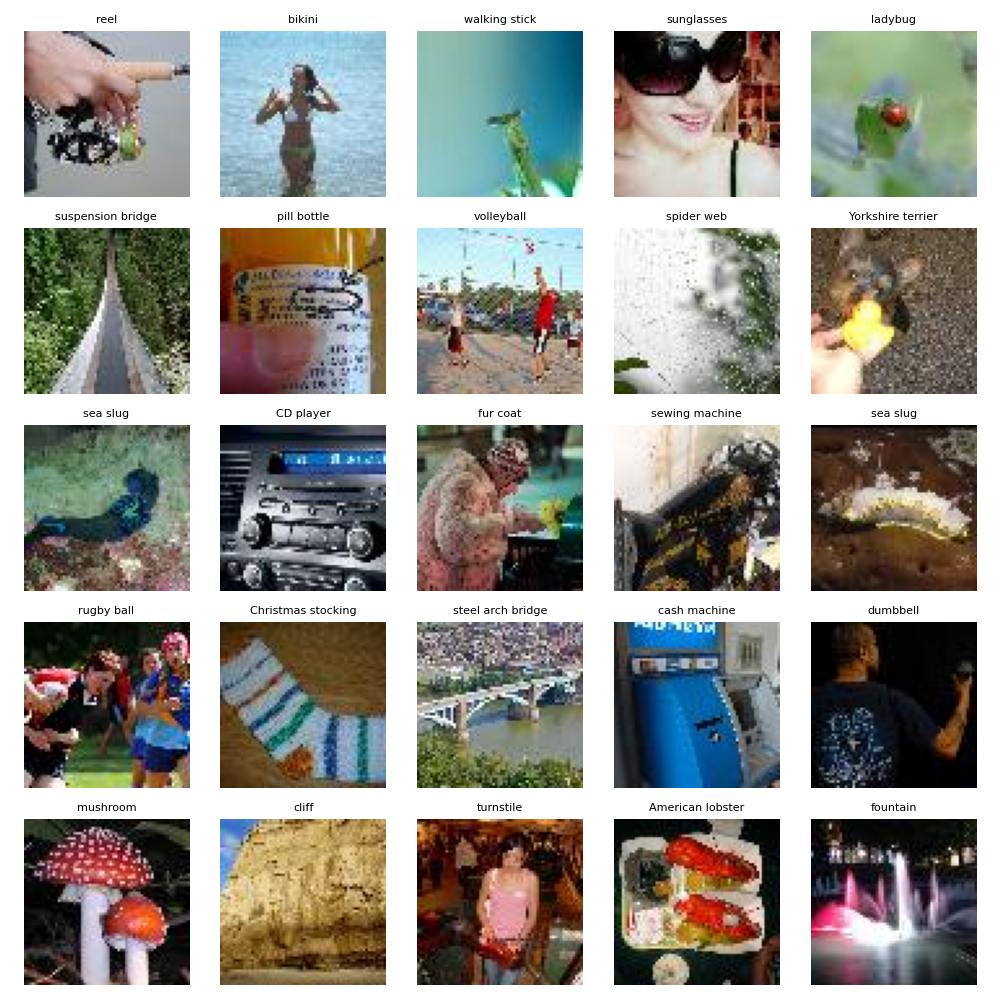
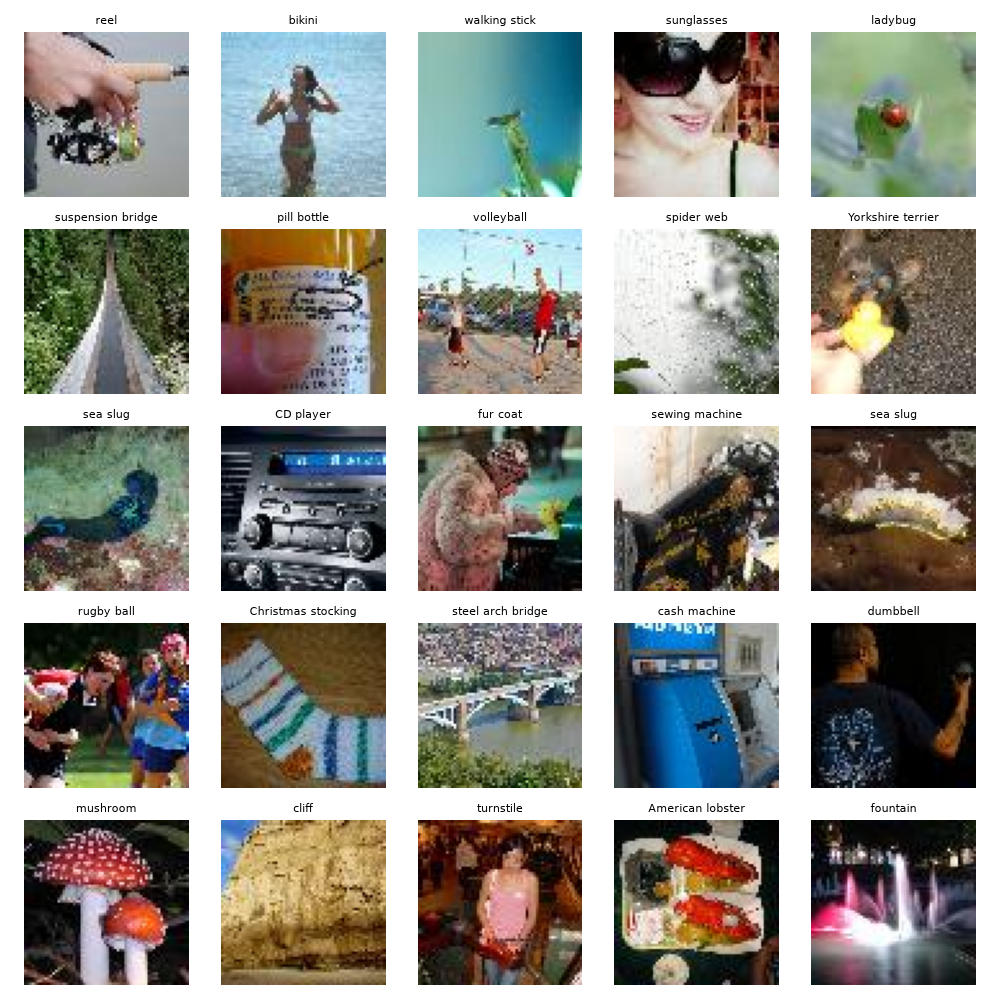
docs: TASK-007, 009, 010 done after merging PR #11, TV1 reproduction evidence
Restore TASK-002 samples.png changed by mistake on vananh; add app/examples/README.md (image sources not recorded, accepted by TV1). Mark TV5 tasks done in plan, eval, demo, README, report; fix links to deleted docs/tasks/. Evidence: test rerun matches 10,000/10,000 predictions per model, compare/error_analysis outputs identical, 109 tests pass on main.

diff --git a/report/report.md b/report/report.md
@@ -1,6 +1,6 @@
 # Báo cáo: Phân loại ảnh Tiny ImageNet bằng Vision Transformer
 
-> **Bản nháp, cập nhật ngày 2026-11-21.** Khung theo mục 15 của [spec](../SPEC_ViT.md). Đã có dữ liệu, phương pháp, huấn luyện, kết quả test và so sánh (mục 5), attention (mục 6), phân tích lỗi (mục 7), hướng dẫn demo và kiểm thử (mục 8). Phần TV5 chờ TV1 xác minh; mục 1 và 9, link checkpoint và kiểm tra máy sạch còn cần hoàn thiện.
+> **Bản nháp, cập nhật ngày 2026-11-21.** Khung theo mục 15 của [spec](../SPEC_ViT.md). Đã có dữ liệu, phương pháp, huấn luyện, kết quả test và so sánh (mục 5), attention (mục 6), phân tích lỗi (mục 7), hướng dẫn demo và kiểm thử (mục 8). Phần TV5 đã được TV1 xác minh (PR #11); mục 1 và 9, link checkpoint và kiểm tra máy sạch còn cần hoàn thiện.
 
 **Phân công viết** (theo mục 19 spec; TV5 ghép bản cuối):
 
@@ -433,7 +433,7 @@ python -m pytest tests/test_evaluate.py tests/test_compare.py tests/test_demo.py
 
 Các test dùng dữ liệu giả nhỏ và thư mục tạm, không cần checkpoint thật hay bộ dữ liệu Tiny ImageNet. Đây là kiểm chứng chức năng code, khác với đánh giá độ chính xác mô hình trên tập test ở mục 5. TV5 chạy kiểm thử. Chi tiết ghi trong [AI_Usage.md](../AI_Usage.md) và [nhật ký](../docs/10_work_log.md).
 
-Demo đã được kiểm tra trên bản copy sạch với môi trường Python mới, không copy `.git`, `.venv`, `data/` hoặc checkpoint cũ. Sau khi cài `requirements.txt`, toàn bộ pytest đạt 109 passed và chép hai checkpoint best để chạy demo. Thao tác trình duyệt đã được kiểm tra với ảnh mẫu và ảnh tải lên; callback Gradio với hai checkpoint thật cho ảnh RGB, xám và alpha đều trả hai bảng Top-5 cùng ảnh rollout. Các task của TV5 vẫn chờ TV1 xác minh.
+Demo đã được kiểm tra trên bản copy sạch với môi trường Python mới, không copy `.git`, `.venv`, `data/` hoặc checkpoint cũ. Sau khi cài `requirements.txt`, toàn bộ pytest đạt 109 passed và chép hai checkpoint best để chạy demo. Thao tác trình duyệt đã được kiểm tra với ảnh mẫu và ảnh tải lên; callback Gradio với hai checkpoint thật cho ảnh RGB, xám và alpha đều trả hai bảng Top-5 cùng ảnh rollout. TV1 chạy lại đánh giá, phân tích lỗi, so sánh và callback demo ngày 2026-11-21, kết quả khớp.
 
 ## 9. Kết luận và hướng phát triển
 

diff --git a/docs/07_evaluation.md b/docs/07_evaluation.md
@@ -1,6 +1,6 @@
 # Đánh giá, attention và so sánh
 
-**Người giữ:** TV5 (đánh giá, so sánh), TV2 (attention). **Đầu việc:** TASK-007, TASK-008, TASK-009, TASK-012. **Code:** đã có `src/attention.py` (TASK-008, TV1 review và gộp qua [PR #6](https://github.com/QuocAn118/Classify-images-using-Vision-Transformer/pull/6) ngày 2026-11-20). Đã triển khai `src/evaluate.py` và `scripts/error_analysis.py` cho TASK-007 trên nhánh `vananh`. Đã triển khai `src/compare.py` cho TASK-009. Chạy `python -m src.compare` từ thư mục gốc để tạo bảng so sánh ViT–CNN và hai biểu đồ.
+**Người giữ:** TV5 (đánh giá, so sánh), TV2 (attention). **Đầu việc:** TASK-007, TASK-008, TASK-009, TASK-012. **Code:** đã có `src/attention.py` (TASK-008, TV1 review và gộp qua [PR #6](https://github.com/QuocAn118/Classify-images-using-Vision-Transformer/pull/6) ngày 2026-11-20). Đã có `src/evaluate.py`, `scripts/error_analysis.py` (TASK-007) và `src/compare.py` (TASK-009), TV1 review và gộp qua [PR #11](https://github.com/QuocAn118/Classify-images-using-Vision-Transformer/pull/11) ngày 2026-11-21. Chạy `python -m src.compare` từ thư mục gốc để tạo bảng so sánh ViT–CNN và hai biểu đồ.
 
 ## Thành phần làm gì
 Đo kết quả cuối trên test, phân tích lỗi, trực quan hóa attention của ViT và sinh bảng so sánh ViT với CNN. Mọi số đều lấy từ file.
@@ -87,6 +87,12 @@ python -m src.attention --checkpoint outputs/checkpoints/vit_small_seed42_best.p
 
 ## Rủi ro
 - Rò rỉ dữ liệu test: đánh giá số cuối và vẽ attention chỉ sau khi chốt cấu hình/checkpoint. Không dùng nhóm ảnh đã chọn cân bằng đúng/sai để báo accuracy hoặc chọn mô hình.
+
+### TV1 review ngày 2026-11-21
+
+- Chạy lại `evaluate_model` trên CPU với hai checkpoint best (epoch 50): ViT 48,46 / 72,76, CNN 59,03 / 81,74; 10.000/10.000 dự đoán trùng CSV đã commit, số ảnh sai 5.154 và 4.097. Tên lớp trong checkpoint khớp `class_names.json`.
+- Chạy lại `scripts.error_analysis` và `src.compare`: mọi CSV/JSON giống hệt; PNG chỉ khác byte do render. Số liệu mục 5, 7 báo cáo (168/13/19 lớp, cặp nhầm, val loss) khớp file.
+- `python -m pytest -q -W error` → 109 passed. Tốc độ suy luận đo trên batch val, không đọc test để chọn gì.
 
 ### Rà soát TV5 ngày 2026-11-21
 

diff --git a/README.md b/README.md
@@ -2,7 +2,7 @@
 
 Đồ án môn Học sâu, đề số 9. Nhóm tự cài ViT, so sánh với một CNN có cùng số tham số và trực quan hóa attention.
 
-> **Trạng thái:** đã có khung repo, dữ liệu, DataLoader (TASK-001 đến 003), ViT ([PR #2](https://github.com/QuocAn118/Classify-images-using-Vision-Transformer/pull/2)), CNN ([PR #3](https://github.com/QuocAn118/Classify-images-using-Vision-Transformer/pull/3)), vòng lặp train và train thật 50 epoch (TASK-006, 011, TV4, gộp từ nhánh `hoangdang`) và hình attention (TASK-008, [PR #6](https://github.com/QuocAn118/Classify-images-using-Vision-Transformer/pull/6)). Validation Top-1: ViT 47,63%, CNN 58,73% ([bằng chứng](outputs/results/task011_training_checks.json)). Đánh giá test, bảng so sánh và demo đã triển khai trên nhánh `vananh`, đang sửa theo review và chờ TV1 xác minh.
+> **Trạng thái:** đã có khung repo, dữ liệu, DataLoader (TASK-001 đến 003), ViT ([PR #2](https://github.com/QuocAn118/Classify-images-using-Vision-Transformer/pull/2)), CNN ([PR #3](https://github.com/QuocAn118/Classify-images-using-Vision-Transformer/pull/3)), vòng lặp train và train thật 50 epoch (TASK-006, 011, TV4, gộp từ nhánh `hoangdang`) và hình attention (TASK-008, [PR #6](https://github.com/QuocAn118/Classify-images-using-Vision-Transformer/pull/6)). Validation Top-1: ViT 47,63%, CNN 58,73% ([bằng chứng](outputs/results/task011_training_checks.json)). Đánh giá test, bảng so sánh và demo Gradio (TASK-007, 009, 010, TV5, [PR #11](https://github.com/QuocAn118/Classify-images-using-Vision-Transformer/pull/11)). Test Top-1: ViT 48,46%, CNN 59,03% ([ViT](outputs/results/vit_small_seed42.json), [CNN](outputs/results/cnn_baseline_seed42.json), [bảng so sánh](outputs/results/comparison.md)).
 
 ## Bài toán
 
@@ -31,7 +31,7 @@ python -m pytest
 ```
 
 - `prepare_data.py --download` tải Tiny ImageNet từ Stanford (248 MB) vào `data/`, chia train/validation/test và tạo cache khoảng 1,35 GB ở `data/cache/tiny_imagenet_64/`. Trên máy TV1 (CPU, Windows) mất 64 phút.
-- Đánh giá, so sánh và demo đã triển khai trên nhánh `vananh`, đang sửa theo review và chờ TV1 xác minh.
+- Đánh giá test, so sánh và demo: lệnh ở mục dưới.
 
 ### Đánh giá, so sánh và demo (TV5)
 

diff --git a/docs/10_work_log.md b/docs/10_work_log.md
@@ -311,6 +311,13 @@ Ghi ngắn sau mỗi buổi hoặc mốc đáng kể.
 Copy project sang thư mục mới, bỏ `.git`, `.venv`, `data/` và `checkpoint`; tạo `.venv` mới, cài `requirements.txt` và chạy pytest: 109 passed.
 
 
+## 2026-11-21 (TV1, review và gộp TASK-007, TASK-009, TASK-010)
+
+- **Kết quả:** Gộp [PR #11](https://github.com/QuocAn118/Classify-images-using-Vision-Transformer/pull/11) (nhánh `vananh`, TV5) vào `main` bằng `--no-ff`. Vòng 1 yêu cầu sửa: thiếu `gradio` trong requirements, demo in traceback khi thiếu checkpoint, ảnh mẫu 9 MB, code lặp trong `error_analysis.py`; TV5 sửa đủ và thêm 16 test. Sau gộp TV1 trả `outputs/figures/samples.png` về bản TASK-002 (TV5 vô tình đổi) và tạo `app/examples/README.md`; TV1 chấp nhận ảnh mẫu không có URL nguồn.
+- **Bằng chứng:** chạy lại test trên CPU khớp 10.000/10.000 dự đoán mỗi mô hình (ViT 48,46 / 72,76, CNN 59,03 / 81,74); `scripts.error_analysis` và `src.compare` ra CSV/JSON giống hệt; callback demo với hai checkpoint thật; `python -m pytest -q -W error` trên `main` sau gộp → 109 passed.
+- **Chưa xác minh:** chưa mở demo trong trình duyệt trên máy TV1; kiểm tra máy sạch của TV5 là bản copy trên cùng máy, chưa phải clone trên máy khác; giấy phép ảnh mẫu chưa xác nhận.
+- **Bước tiếp theo:** TASK-012 hoàn thiện báo cáo; TV1 viết mục 1, 8, 9, tải checkpoint lấy link công khai, đi checklist "Nộp bài".
+
 ## Mẫu buổi làm
 
 - Ngày: [YYYY-MM-DD]

diff --git a/Project_description.md b/Project_description.md
@@ -38,7 +38,7 @@ Chi tiết, yêu cầu chức năng và giả định còn mở: [docs/01_define
 
 ## Plan
 - **Mốc:** duyệt tài liệu và nộp mẫu đăng ký → khung repo → `--quick` chạy thông → train thật → số cuối trên test → nộp bài 24/11 (25/11 dự phòng).
-- **Trạng thái:** TASK-001 đến TASK-006, TASK-008 và TASK-011 đã gộp vào main; ViT/CNN đã train đủ 50 epoch, có log/checkpoint/báo cáo validation. Chưa có đánh giá test cuối (TASK-007, 012). Mô tả TASK-006/011 lưu tạm trong `docs/tasks/` theo sự đồng ý của người dùng vì chưa truy cập được GitHub.
+- **Trạng thái:** TASK-001 đến TASK-011 đã gộp vào main; ViT/CNN train đủ 50 epoch; test Top-1 ViT 48,46%, CNN 59,03%; có bảng so sánh và demo Gradio. Còn TASK-012 (hoàn thiện báo cáo, nộp bài) và TASK-013 (tùy chọn).
 - **Đầu việc tiếp theo:** TV1 review phần TV4; bàn giao checkpoint cho TASK-008 (TV2, attention) và các phần đánh giá/so sánh/demo của TV5. Chưa có kết quả test cuối hoặc link chia sẻ checkpoint. Chi tiết ở [docs/03_plan.md](docs/03_plan.md).
 
 Phân công, danh sách đầu việc, thứ tự cắt việc và checklist nộp bài: [docs/03_plan.md](docs/03_plan.md). Nhật ký: [docs/10_work_log.md](docs/10_work_log.md).

diff --git a/docs/06_training.md b/docs/06_training.md
@@ -2,7 +2,7 @@
 
 **Người giữ:** TV4 (Hđang). **Đầu việc:** TASK-006, TASK-011. **Code:** `src/train.py`.
 
-TASK-006 và TASK-011 hoàn thành. TV1 review và gộp vào `main` ngày 2026-11-20 (không qua PR): 72 test pass, SHA-256 bốn checkpoint khớp, chạy lại val từ checkpoint best khớp log (ViT 47,61 / CNN 58,74 trên CPU fp32). mô tả đầu việc tạm lưu tại [TASK-006.md](tasks/TASK-006.md) theo sự đồng ý của người dùng do chưa có quyền truy cập GitHub. TASK-011 đã train đủ 50 epoch cho hai mô hình, có bằng chứng bên dưới.
+TASK-006 và TASK-011 hoàn thành. TV1 review và gộp vào `main` ngày 2026-11-20 (không qua PR): 72 test pass, SHA-256 bốn checkpoint khớp, chạy lại val từ checkpoint best khớp log (ViT 47,61 / CNN 58,74 trên CPU fp32). mô tả đầu việc từng lưu tạm trong `docs/tasks/` do chưa có quyền truy cập GitHub, TV1 xóa ngày 2026-11-20 sau khi gộp. TASK-011 đã train đủ 50 epoch cho hai mô hình, có bằng chứng bên dưới.
 
 ## Thành phần làm gì
 Train ViT và CNN từ một lệnh, chọn checkpoint trên validation, chịu được ngắt phiên, và ghi log cùng checkpoint theo hợp đồng chung.

diff --git a/docs/08_demo.md b/docs/08_demo.md
@@ -1,6 +1,6 @@
 # Demo
 
-**Người giữ:** TV5<br> **Đầu việc:** TASK-010. <br> **Code:** `app/demo.py`
+**Người giữ:** TV5. **Đầu việc:** TASK-010, hoàn thành ([PR #11](https://github.com/QuocAn118/Classify-images-using-Vision-Transformer/pull/11) gộp ngày 2026-11-21). **Code:** `app/demo.py`, ảnh mẫu trong `app/examples/`.
 
 ## Thành phần làm gì
 Giao diện Gradio chạy cục bộ trên CPU: tải một ảnh lên, xem Top-5 của ViT và CNN cùng ảnh attention rollout. Không cần bộ dữ liệu, chỉ cần checkpoint.
@@ -28,6 +28,6 @@ Giao diện Gradio chạy cục bộ trên CPU: tải một ảnh lên, xem Top-
 
 | Lệnh | Điều kiện | Trạng thái |
 |---|---|---|
-| `python app/demo.py` | Có checkpoint, đã cài `gradio` | Đã có code |
+| `python app/demo.py` | Có checkpoint, đã cài `gradio` (có trong `requirements.txt`) | TV1 gọi callback với hai checkpoint thật 2026-11-21: 4 ảnh mẫu ra Top-5 hai mô hình và rollout 64×64; thiếu ảnh báo lỗi dễ hiểu. Chưa thử trên máy khác |
 
 Kiểm tra bằng trình duyệt: tải ảnh, đối chiếu Top-5 và ảnh attention.

diff --git a/app/examples/README.md b/app/examples/README.md
@@ -1,0 +1,14 @@
+# Ảnh mẫu cho demo
+
+Ảnh lấy từ bên ngoài, không thuộc bộ dữ liệu Tiny ImageNet. Tên file trùng tên lớp trong `class_names` của checkpoint. Demo tự resize về kích thước trong config.
+
+| File | Lớp | Nguồn | Giấy phép |
+|---|---|---|---|
+| `goldfish.jpg` | goldfish | chưa có | chưa xác nhận |
+| `guinea pig.jpg` | guinea pig | chưa có | chưa xác nhận |
+| `jellyfish.jpg` | jellyfish | chưa có | chưa xác nhận |
+| `teapot.jpg` | teapot | chưa có | chưa xác nhận |
+| `triumphal arch.jpg` | triumphal arch | chưa có | chưa xác nhận |
+| `Yorkshire terrier.jpg` | Yorkshire terrier | chưa có | chưa xác nhận |
+
+TV5 bổ sung URL nguồn. Ảnh nào không rõ giấy phép thì thay bằng ảnh có giấy phép tự do (ví dụ Wikimedia Commons) trước khi nộp.
